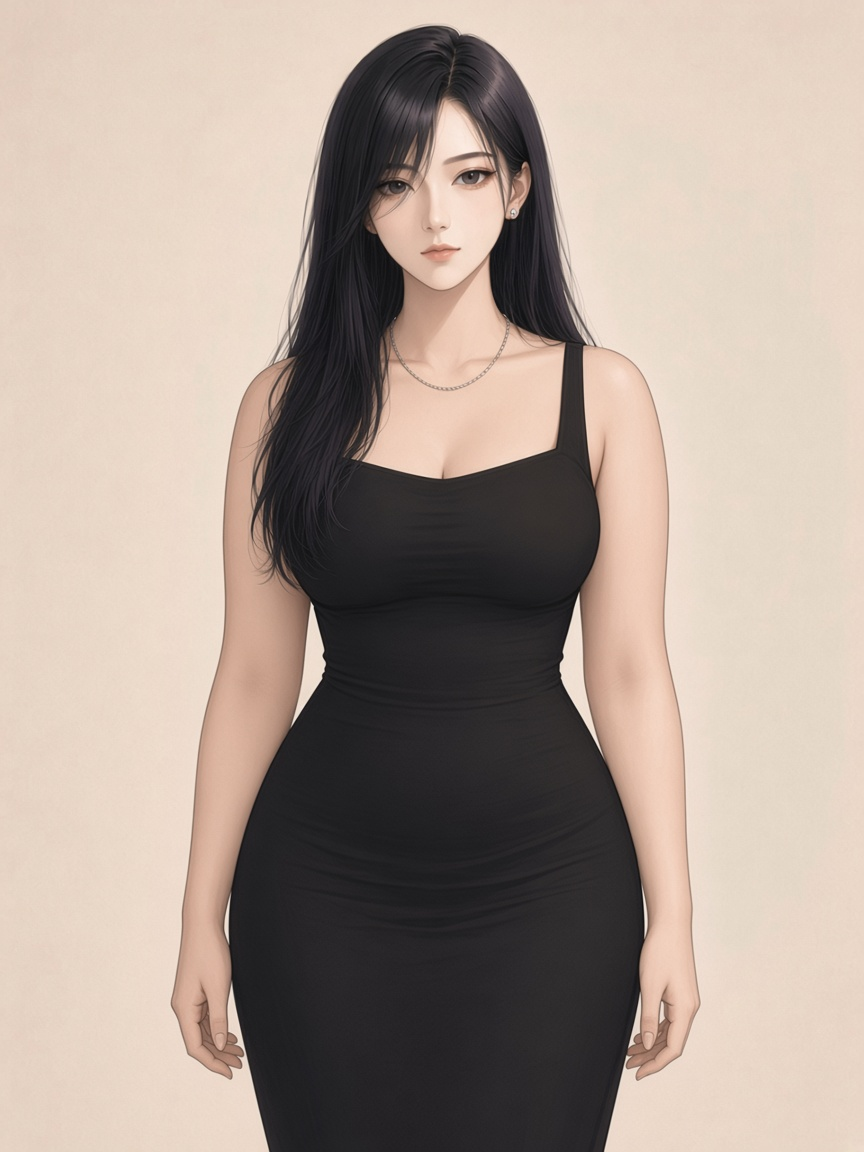
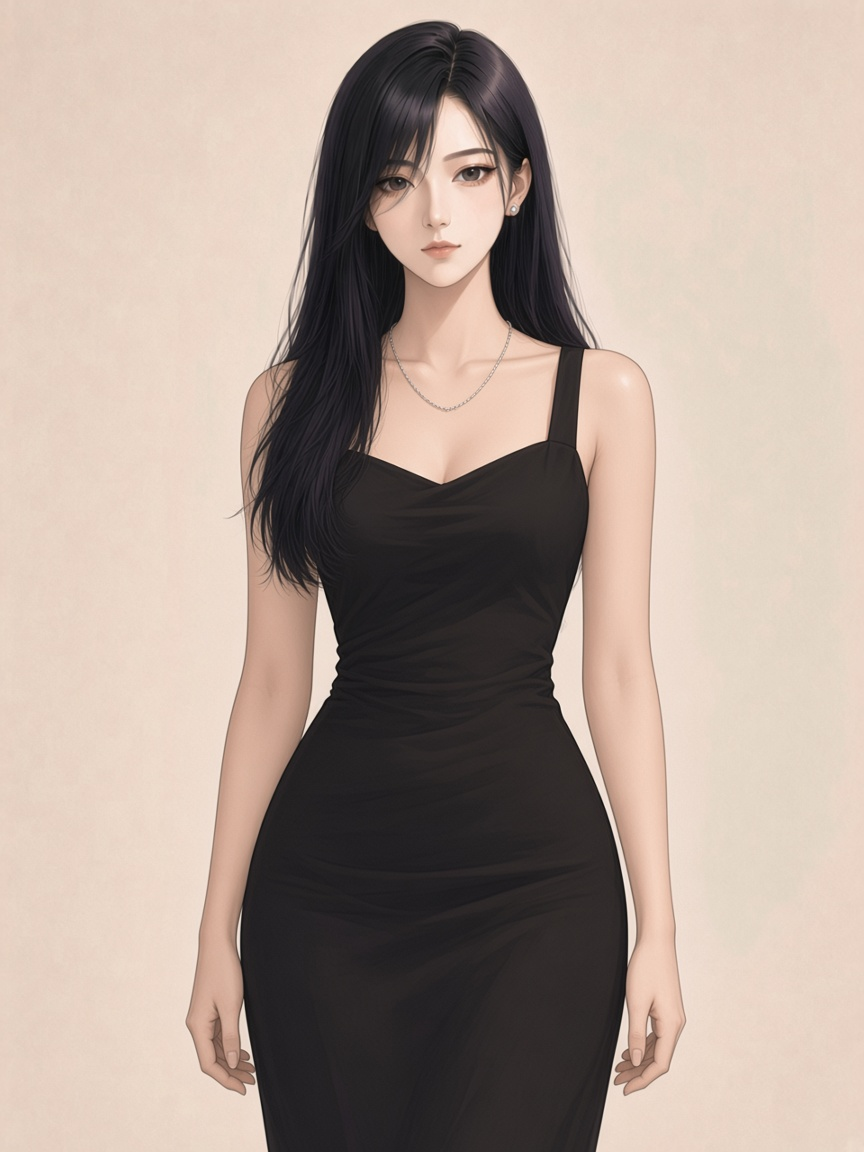
Slim Shen Wan's figure one step further.

diff --git a/portrait.js b/portrait.js
@@ -1,4 +1,4 @@
-/* 原创角色沈晚。同一张脸，30 套衣服按日期轮换。上半身保持，腰细，腿细。 */
+/* 原创角色沈晚。同一张脸，30 套衣服按日期轮换。腰和腿再瘦一档。 */
 const OUTFITS = [
   { name: "深灰高领，黑风衣", file: "outfit-01.png" },
   { name: "白衬衫，墨蓝背心裙", file: "outfit-02.png" },
